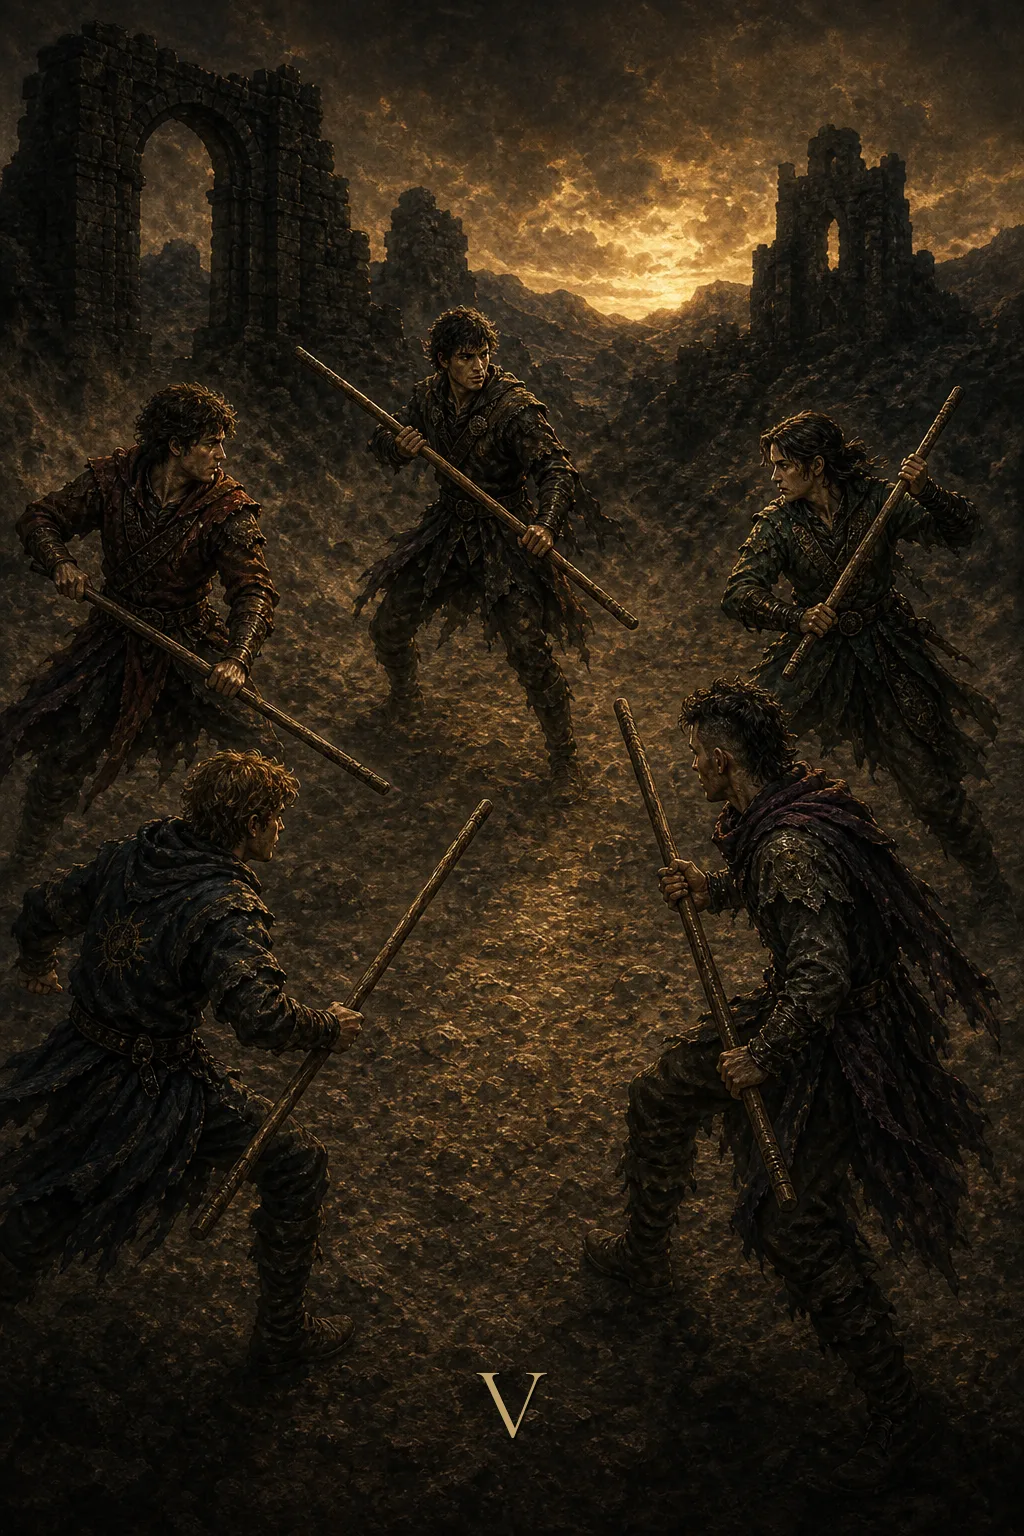
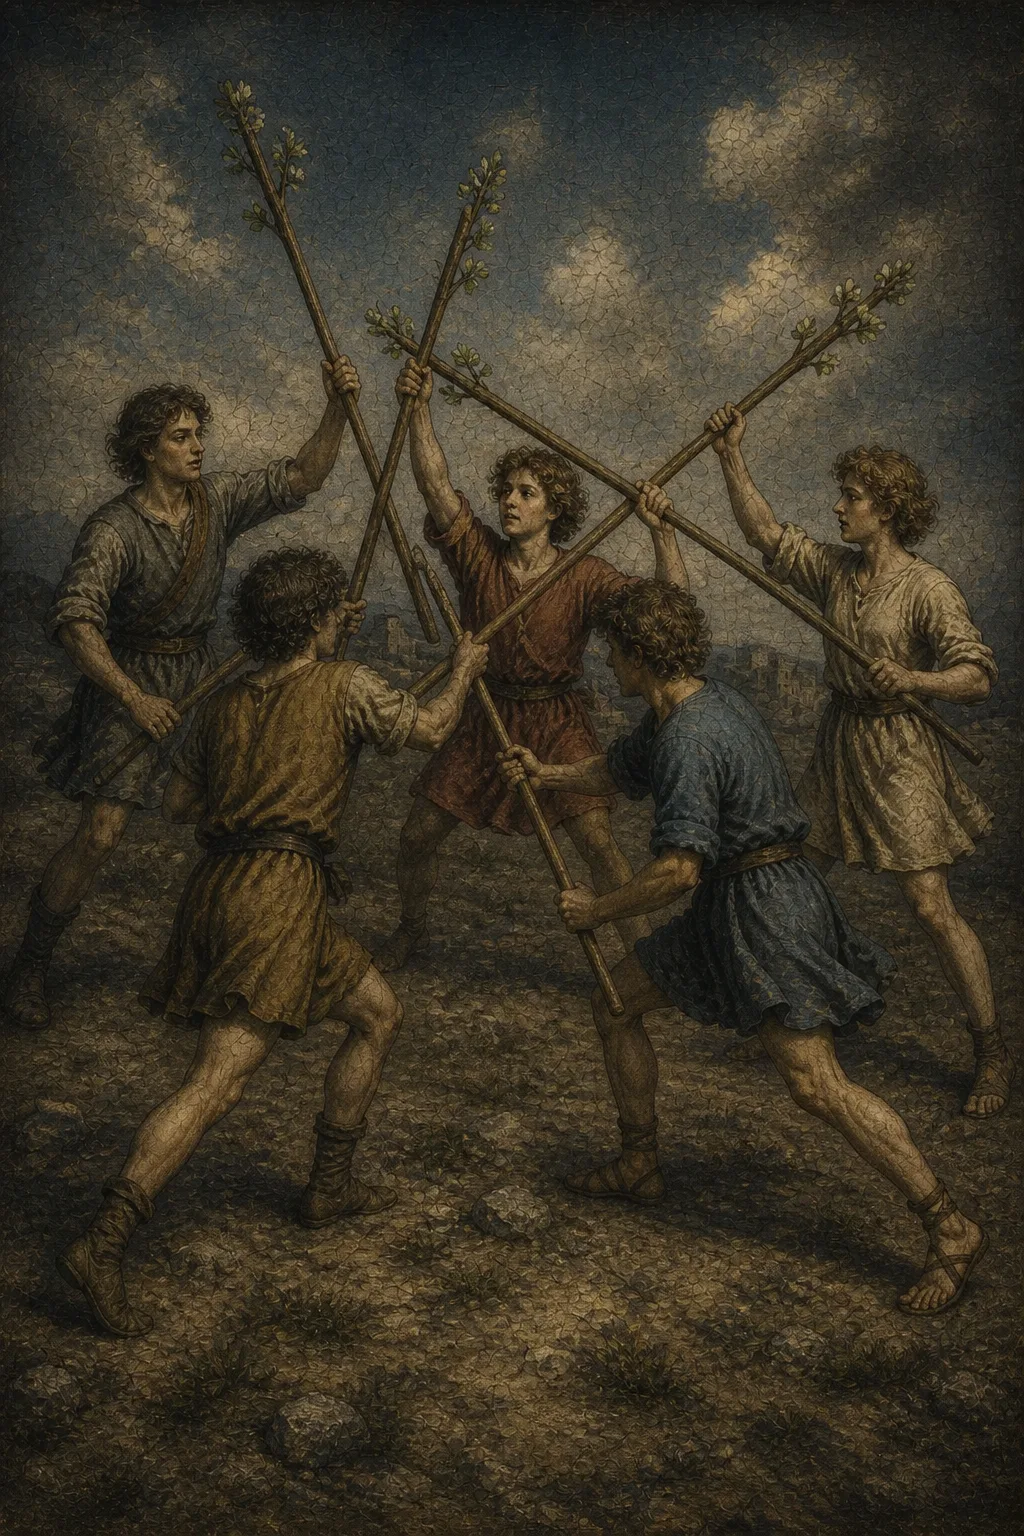
Regenerate five Wands artworks

diff --git a/public/assets/cards.js b/public/assets/cards.js
@@ -3210,7 +3210,7 @@ export const TAROT_CARDS = [
     streetName: 'Два жезла',
     streetText: 'Не зависай на балконе. Выбери направление и сделай один живой шаг.',
     visualHint: 'фигура на стене, глобус, два жезла, горизонт, выбор направления',
-    image: 'assets/cards/two-of-wands.webp',
+    image: 'assets/cards/two-of-wands.webp?v=20260827-minor-v',
     num: 'II',
     symbol: '✦',
     result: {
@@ -3288,7 +3288,7 @@ export const TAROT_CARDS = [
     streetName: 'Горизонт',
     streetText: 'Ты уже двинулся. Теперь смотри не под ноги, а чуть дальше.',
     visualHint: 'три жезла, утёс, горизонт, корабли, золотой рассвет, ожидание',
-    image: 'assets/cards/three-of-wands.webp',
+    image: 'assets/cards/three-of-wands.webp?v=20260827-minor-v',
     num: 'III',
     symbol: '✦',
     result: {
@@ -3342,7 +3342,7 @@ export const TAROT_CARDS = [
     streetName: 'Опора',
     streetText: 'Не проскочи то, что уже получилось. Выдохни, отметь этап, позови своих.',
     visualHint: 'четыре жезла, гирлянда, две фигуры, дом, праздник у порога',
-    image: 'assets/cards/four-of-wands.webp',
+    image: 'assets/cards/four-of-wands.webp?v=20260827-minor-v',
     num: 'IV',
     symbol: '✦',
     result: {
@@ -3420,7 +3420,7 @@ export const TAROT_CARDS = [
     streetName: 'Палочный спор',
     streetText: 'Все тянут в разные стороны. Не ори громче всех — пойми, за что реально спор.',
     visualHint: 'пять разных фигур, пять жезлов, напряжение, спор, тренировочная схватка без войны',
-    image: 'assets/cards/five-of-wands.webp',
+    image: 'assets/cards/five-of-wands.webp?v=20260827-minor-v',
     num: 'V',
     symbol: '✦',
     result: {
@@ -3498,7 +3498,7 @@ export const TAROT_CARDS = [
     streetName: 'Едешь красиво',
     streetText: 'Ты это сделал. Не мямли “да ничего такого” — прими результат нормально.',
     visualHint: 'всадник, жезл с лавровым венком, пять жезлов вокруг, признание после пути',
-    image: 'assets/cards/six-of-wands.webp',
+    image: 'assets/cards/six-of-wands.webp?v=20260827-minor-v',
     num: 'VI',
     symbol: '✦',
     result: {

diff --git a/public/ritual/index.html b/public/ritual/index.html
@@ -63,8 +63,8 @@
     <link rel="stylesheet" href="/assets/fonts.css" />
     <link rel="preload" as="image" href="/assets/3d/mora-card-back.webp" fetchpriority="high" />
     <link rel="preload" as="fetch" href="/assets/3d/mora-card.glb?v=20260821-stripface1" type="model/gltf-binary" crossorigin fetchpriority="high" />
-    <link rel="modulepreload" href="./app.js?v=20260827-minor-iv" />
-    <link rel="modulepreload" href="/assets/cards.js?v=20260827-minor-iv" />
+    <link rel="modulepreload" href="./app.js?v=20260827-minor-v" />
+    <link rel="modulepreload" href="/assets/cards.js?v=20260827-minor-v" />
     <link rel="modulepreload" href="./daily-3d.js?v=20260825-cardmatch2" />
     <link rel="modulepreload" href="./spread-deck-3d.js?v=20260825-cardmatch2" />
     <link rel="modulepreload" href="/vendor/three/0.180.0/build/three.module.js" />
@@ -467,6 +467,6 @@
       </div>
     </section>
 
-    <script type="module" src="./app.js?v=20260827-minor-iv"></script>
+    <script type="module" src="./app.js?v=20260827-minor-v"></script>
   </body>
 </html>

diff --git a/public/ritual/app.js b/public/ritual/app.js
@@ -1,4 +1,4 @@
-import { TAROT_CARDS } from "/assets/cards.js?v=20260827-minor-iv";
+import { TAROT_CARDS } from "/assets/cards.js?v=20260827-minor-v";
 import { mountDailyDeck3D } from "./daily-3d.js?v=20260825-cardmatch2";
 import { mountSpreadDeck3D } from "./spread-deck-3d.js?v=20260825-cardmatch2";
 

diff --git a/PROJECT_CONTEXT.md b/PROJECT_CONTEXT.md
@@ -76,7 +76,7 @@ Working MVP:
 - Gemini provider with GigaChat fallback and reservation protection
 - responsive mobile and desktop layouts sharing one product flow
 - deck currently has 77 cards: 22 major arcana and 55 minor/court cards
-- latest visual-unification release added ten more existing minor canonical artworks: `four-of-cups`, `five-of-cups`, `ace-of-pentacles`, `two-of-pentacles`, `six-of-pentacles`, `three-of-pentacles`, `four-of-pentacles`, `five-of-pentacles`, `seven-of-pentacles`, `eight-of-pentacles`; together with the previous ten, twenty minor/court artworks are now unified; release commit `eba5629`, production deployment `dpl_94abEHnXqEygGNoegxDzSHQXbp3S`
+- latest visual-unification release added ten more existing minor canonical artworks: `four-of-cups`, `five-of-cups`, `ace-of-pentacles`, `two-of-pentacles`, `six-of-pentacles`, `three-of-pentacles`, `four-of-pentacles`, `five-of-pentacles`, `seven-of-pentacles`, `eight-of-pentacles`; together with the previous ten, twenty minor/court artworks are released in commit `eba5629` / deployment `dpl_94abEHnXqEygGNoegxDzSHQXbp3S`; a fifth approved batch (`two-of-wands` through `six-of-wands`) is integrated locally and awaits manual QA plus a separate commit/deploy request
 - share-ready cards currently (69): `fool`, `magician`, `high-priestess`, `empress`, `emperor`, `hierophant`, `lovers`, `chariot`, `strength`, `hermit`, `wheel`, `justice`, `hanged-man`, `death`, `temperance`, `devil`, `tower`, `star`, `moon`, `sun`, `judgement`, `world`, `two-of-cups`, `six-of-cups`, `ace-of-swords`, `page-of-cups`, `king-of-cups`, `queen-of-cups`, `knight-of-cups`, `king-of-wands`, `queen-of-wands`, `knight-of-wands`, `four-of-swords`, `five-of-swords`, `seven-of-swords`, `queen-of-swords`, `king-of-swords`, `knight-of-swords`, `three-of-cups`, `four-of-cups`, `five-of-cups`, `ace-of-pentacles`, `two-of-pentacles`, `six-of-pentacles`, `three-of-pentacles`, `four-of-pentacles`, `five-of-pentacles`, `seven-of-pentacles`, `nine-of-pentacles`, `ten-of-pentacles`, `page-of-pentacles`, `king-of-pentacles`, `knight-of-pentacles`, `two-of-wands`, `four-of-wands`, `five-of-wands`, `six-of-wands`, `seven-of-wands`, `eight-of-wands`, `nine-of-wands`, `page-of-wands`, `page-of-swords`, `eight-of-cups`, `ten-of-cups`, `nine-of-cups`, `ten-of-wands`, `nine-of-swords`, `eight-of-swords`, `ten-of-swords`
 - latest card addition: `ten-of-swords` / «Десятка Мечей»; approved dark aged-oil visual preserves one prone figure beneath exactly ten swords, a muted red cloth, calm water, distant mountains, black sky and a narrow golden dawn; the accepted integrated `X` marker uses the standard numbered-card helper, and the card has three approved `preview/full/share` readings about a stopped project, a relationship or agreement ending and recovery after overwork
 - previous card addition: `knight-of-swords` / «Рыцарь Мечей»; approved dark aged-oil visual preserves one knight on one pale galloping horse, exactly one raised sword, a red plume and cloak, storm clouds and bent trees; the accepted footer reuses the full `K`-with-crown marker from `king-of-swords`, and the card has three approved `preview/full/share` readings about a rushed work task, a sharp exchange and a time-sensitive opportunity

diff --git a/docs/decisions.md b/docs/decisions.md
@@ -6,6 +6,14 @@
 
 ---
 
+## 2026-08-27 — Пятая пятёрка Младших арканов интегрирована после общего аппрува
+
+**Что:** `two-of-wands`, `three-of-wands`, `four-of-wands`, `five-of-wands` и `six-of-wands` получили `approved-final` и заменили прежние canonical WebP. Все пять имеют `1024×1536`, закодированы `cwebp -q 82`, весят `278–463 KB` и получили cache-bust `20260827-minor-v`. RWS-контракты сохраняют точные количества фигур и жезлов; ID, тексты, CSS, GLB и flow не менялись. Artwork не содержит встроенных номеров, текста, рамок или footer-плашек.
+
+**Почему:** Автор просмотрел полный комплект и явно утвердил все пять. Первый кандидат Шестёрки был отклонён из-за недостающего сопровождающего, а во втором автор заметил визуально разорванный жезл у среднего участника правой тройки; финальный вариант показывает одного всадника, пять сопровождающих и шесть цельных, прослеживаемых жезлов.
+
+**Кто:** автор + агент.
+
 ## 2026-08-27 — Третья и четвёртая пятёрки Младших арканов выпущены в production
 
 **Что:** Десять approved-final artwork из двух последних партий выпущены release commit `eba5629` в canonical Vercel project `mora`, production deployment `dpl_94abEHnXqEygGNoegxDzSHQXbp3S`. Alias `mora-kappa.vercel.app` получил cache-bust `20260827-minor-iv`; `/` и `/ritual` вернули `200`, production `cards.js` содержит версии обеих партий, SHA-256 `ace-of-pentacles` и `eight-of-pentacles` совпали с canonical файлами, account-state без сессии вернул ожидаемый `401`. Deploy выполнен из чистого Git archive commit; untracked пользовательский `Cover.png` не загружался.
